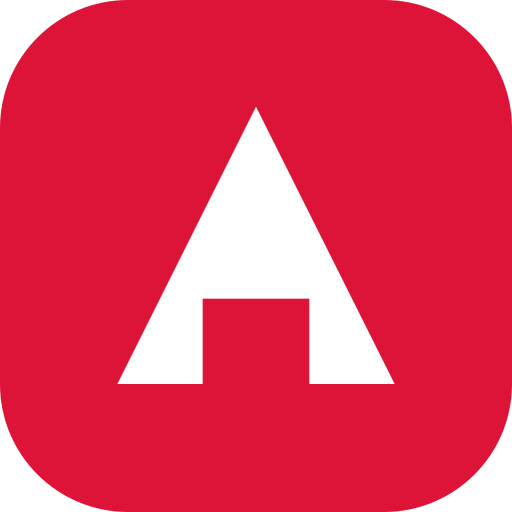
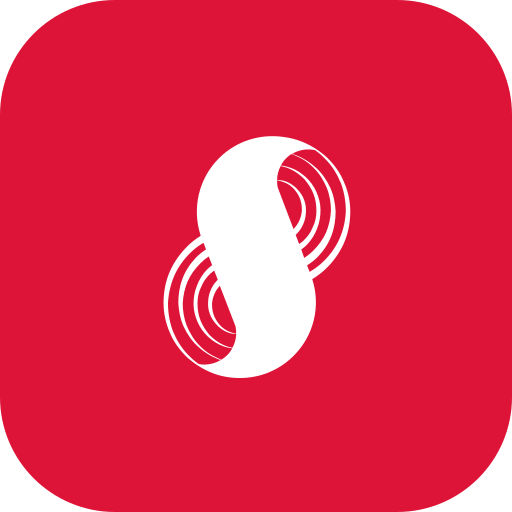
fix(supra): SupraSwap mark + native token fixes (#10)
- Swap Uniswap wordmark/favicon/icons for new SupraSwapMark across
  nav and wallet modal; rename TVL label to SupraSwap.
- Drop V2/V4 from Explore volume/TVL stats since Supra only has a
  V3 deployment; stop warning on their durably-empty data.
- Resolve NATIVE to its wrapped token when selecting/defaulting
  currencies in create-position, since v2/v3 pools can't hold
  native directly.
- Add Supra to COMMON_BASES and quote native as wrapped on Supra,
  since the gateway doesn't yet support the native-token sentinel.
- Fix usePoolPriceChartData/usePDPVolumeChartData referencing
  removed v2Pair/v4Pool fields on the now V3-only GraphQL queries.

diff --git a/apps/web/src/components/Logo/SupraSwapMark.tsx b/apps/web/src/components/Logo/SupraSwapMark.tsx
@@ -1,0 +1,18 @@
+import { SVGProps } from 'react'
+
+// SupraSwap brand mark path — shared by NavIcon and UniswapBrandedIcon so the
+// ~4KB path string isn't duplicated between them.
+const SUPRASWAP_MARK_PATH_D =
+  'M201.3 66.4c-3.1-7.8-8.2-14.7-14-20.4-6.1-5.7-13.3-10.2-20.8-13.3-5-2-10.2-3.3-15.6-4-19.1-2.8-39.2 3.1-53.8 17.7-16.8 16.8-22.7 41.5-15.3 64.4v.3c-4.7 2.9-9 6.4-12.7 10.4-5.8 6.1-10.6 13.3-13.7 21.1-3.1 7.9-4.5 16-4.5 24.6 0 8.1 1.8 16.6 5.1 24.2 3.1 7.8 8.2 14.7 14 20.4 6.1 5.7 13.3 10.2 20.8 13.3 7.5 3.1 15.6 4.5 23.9 4.5-1.2 0-2.3 0-3.4-.1 17.3.9 34.8-5.2 48-18.4 16.9-16.9 22.8-41.4 15.5-63.9 5-3 9.6-6.7 13.5-10.8 5.8-6.1 10.6-13.3 13.7-21.1 3.1-7.9 4.5-16 4.5-24.6 0-8.3-1.8-16.8-5.2-24.3m-55.2 4.5c-.5-2-.6-4.1-.6-6.1 2.3.4 4.5 1.1 6.7 2 3.1 1.3 5.7 3.4 7.8 5.7 2 2.5 3.8 5.1 4.8 8.2 1.1 3.1 1.4 6.1 1.4 9.2-.4 5.9-2.9 11.4-7 15.5l-13.1-34.5zm14.9 39.4 1.2-1.2c2.7-2.8 4.4-5.7 5.7-9.2 1.4-3.5 1.7-7.2 1.7-10.6 0-3.8-1-7.1-2.4-10.2-1.4-3.1-3.8-5.8-6.1-8.2-2.4-2.1-5.4-4.2-8.5-5.2-2.2-.8-4.6-1.1-7.1-1.3.1-4 1.1-7.9 3-11.5 2.8.6 5.5 1.4 8 2.6 4.8 2.1 8.5 5.2 11.9 8.5 3.1 3.8 5.8 7.8 7.5 12.3 1.7 4.5 2.4 9.1 2.4 14s-1 9.6-3.1 13.7c-1.7 4.4-4.5 8.1-7.8 11.2-1.1 1-2.3 1.9-3.5 2.7l-2.9-7.6zm4.7 12.2c1.8-1.3 3.5-2.7 5-4.3 3.5-3.8 6.5-8.5 8.2-13.3 2.1-5.2 2.8-10.3 2.8-15.4s-1.3-10.2-3.4-15c-2-4.5-5.1-8.9-8.8-12.3-3.8-3.4-7.8-6.1-12.6-7.8-2.7-.9-5.5-1.6-8.3-1.9 1.2-2.2 2.6-4.2 4.4-6 1.4-1.4 2.9-2.6 4.5-3.6 1.3.5 2.5 1 3.7 1.5 5.7 2.4 11.2 6.1 15.6 10.9 4.5 4.5 7.8 10.3 10.2 16 2.4 6.1 3.4 12.6 3.4 18.7-.3 6.5-1.7 12.7-4.1 18.4-2.4 5.4-6.1 10.5-10.6 15-2.3 2.3-4.9 4.4-7.6 6.1l-2.4-7zm-66.6 91.8c-1-.4-2-.8-3-1.3-5.7-2.4-11.2-6.1-15.6-10.9-4.5-4.5-7.8-10.3-10.2-16-2.4-6.1-3.4-12.6-3.4-18.7.3-6.5 1.7-12.7 4.1-18.4 2.4-5.4 6.1-10.5 10.6-15 2.2-2.2 4.5-4.1 7-5.7l2.8 7.2c-1.6 1.2-3.1 2.5-4.5 3.9-3.5 3.8-6.5 8.5-8.2 13.3-2.1 5.1-2.8 10.3-2.8 15.3s1.3 10.2 3.4 15c2 4.5 5.1 8.9 8.8 12.3 3.8 3.4 7.8 6.1 12.6 7.8 2.4.9 4.9 1.4 7.5 1.8-1.2 2.1-2.6 4-4.3 5.7-1.6 1.5-3.1 2.7-4.8 3.7m1.9-12.2c-4.8-2.1-8.5-5.2-11.9-8.5-3.1-3.8-5.8-7.8-7.5-12.3-1.7-4.5-2.4-9.1-2.4-14s1-9.6 3.1-13.7c1.7-4.4 4.5-8.1 7.8-11.2.9-.8 1.9-1.6 3-2.4l3 7.7c-.2.2-.5.4-.7.7-2.7 2.8-4.4 5.7-5.7 9.2-1.4 3.5-1.7 7.2-1.7 10.6 0 3.8 1 7.1 2.4 10.2 1.4 3.1 3.8 5.8 6.1 8.2 2.4 2.1 5.4 4.2 8.5 5.2 2 .7 4.2 1.1 6.5 1.2-.2 4-1.3 7.9-3.2 11.4-2.5-.5-4.9-1.2-7.3-2.3m9.9-15.5c.4 2 .6 4.1.5 6.1-2.1-.4-4.1-1-6.1-1.9-3.1-1.3-5.7-3.4-7.8-5.7-2-2.5-3.8-5.2-4.8-8.2-1.1-3.1-1.4-6.1-1.4-9.2.4-5.6 2.7-11 6.5-15l13.1 33.9zm-39.2 24c-5.8-5.8-9.9-12.6-13-20.1-2.7-7.1-4.1-15.4-4.1-23.2.4-7.8 2.1-15.6 5.2-22.8 3.1-7.2 7.8-13.7 13.3-19.1 3.3-3.3 7-6.1 11.1-8.5l2.1 5.5c-3.2 2.1-6.2 4.5-8.8 7.3-4.8 5.1-8.5 10.9-10.9 17.3-2.4 6.4-3.4 13.3-3.4 20.1.4 6.7 1.7 13.6 4.5 19.7s6.8 11.9 11.6 16.3c4.8 4.5 10.5 8.2 16.6 10.6.9.3 1.8.6 2.6.9-4 2.4-8.5 3.7-13.3 3.8-1.7 0-3.4-.1-5-.5-3-2.1-5.9-4.6-8.5-7.3m126-97.5c-3.1 7.2-7.8 13.7-13.3 19.1-3.5 3.5-7.5 6.5-11.8 8.9l-2.1-5.4c3.5-2.2 6.7-4.7 9.5-7.7 4.8-5.1 8.5-10.9 10.9-17.3 2.4-6.4 3.4-13.3 3.4-20.1-.4-6.7-1.7-13.6-4.5-19.7S183 59 178.2 54.6c-4.8-4.5-10.5-8.2-16.6-10.6-1.1-.4-2.3-.8-3.5-1.2 5.8-3.5 12.7-4.5 19.1-3.1 3.1 2.2 6 4.7 8.5 7.4 5.8 5.8 9.9 12.6 13 20.1 2.7 7.1 4.1 15.4 4.1 23.2-.3 7.7-2 15.6-5.1 22.7'
+
+export function SupraSwapMark({
+  size = 22,
+  color,
+  ...rest
+}: SVGProps<SVGSVGElement> & { size?: number; color: string }) {
+  return (
+    <svg xmlns="http://www.w3.org/2000/svg" width={size} height={size} viewBox="0 0 255.9 255.8" fill="none" {...rest}>
+      <path fill={color} d={SUPRASWAP_MARK_PATH_D} />
+    </svg>
+  )
+}

diff --git a/apps/web/src/features/Liquidity/Create/SelectTokenStep.tsx b/apps/web/src/features/Liquidity/Create/SelectTokenStep.tsx
@@ -54,6 +54,7 @@ import { useSelectedFeeBreakdown } from '~/features/Liquidity/hooks/useSelectedF
 import { LpIncentivesAprDisplay } from '~/features/Liquidity/LPIncentives/LpIncentivesAprDisplay'
 import { useLPGeoRestriction } from '~/features/Liquidity/useLPGeoRestriction'
 import { getCreateFeeTierOptions, getSteeredRecommendedFee } from '~/features/Liquidity/utils/createFeeTiers'
+import { getCurrencyForProtocol } from '~/features/Liquidity/utils/currency'
 import { getDefaultFeeTiersWithData, getFeeTierKey } from '~/features/Liquidity/utils/feeTiers'
 import { hasLPFoTTransferError } from '~/features/Liquidity/utils/hasLPFoTTransferError'
 import { isUnsupportedLPChain } from '~/features/Liquidity/utils/isUnsupportedLPChain'
@@ -142,19 +143,25 @@ export function SelectTokensStep({
 
       const otherInputState = currencySearchInputState === 'tokenA' ? 'tokenB' : 'tokenA'
       const otherCurrency = currencyInputs[otherInputState]
-      const wrappedCurrencyNew = currency.isNative ? currency.wrapped : currency
-      const wrappedCurrencyOther = otherCurrency?.isNative ? otherCurrency.wrapped : otherCurrency
+      // v2/v3 pools can't hold the native currency directly, so selecting NATIVE here
+      // resolves straight to its wrapped token instead of storing native and only
+      // substituting at calldata-build time (which skipped the ERC20 approval step).
+      const resolvedCurrency = getCurrencyForProtocol(currency, protocolVersion)
+      const wrappedCurrencyOther = getCurrencyForProtocol(otherCurrency, protocolVersion)
 
       setSelectedChainId(currency.chainId)
 
       // If the tokens change, we want to reset the default fee tier (mostUsedFeeTier) in the useEffect below.
       setPositionState((prevState) => ({ ...prevState, fee: undefined }))
 
-      if (areCurrenciesEqual(currency, otherCurrency) || areCurrenciesEqual(wrappedCurrencyNew, wrappedCurrencyOther)) {
+      if (
+        areCurrenciesEqual(currency, otherCurrency) ||
+        areCurrenciesEqual(resolvedCurrency, wrappedCurrencyOther)
+      ) {
         setCurrencyInputs((prevState) => ({
           ...prevState,
           [otherInputState]: undefined,
-          [currencySearchInputState]: currency,
+          [currencySearchInputState]: resolvedCurrency,
         }))
         return
       }
@@ -163,7 +170,7 @@ export function SelectTokensStep({
         setCurrencyInputs((prevState) => ({
           ...prevState,
           [otherInputState]: undefined,
-          [currencySearchInputState]: currency,
+          [currencySearchInputState]: resolvedCurrency,
         }))
         return
       }
@@ -173,14 +180,14 @@ export function SelectTokensStep({
         case 'tokenB':
           setCurrencyInputs((prevState) => ({
             ...prevState,
-            [currencySearchInputState]: currency,
+            [currencySearchInputState]: resolvedCurrency,
           }))
           break
         default:
           break
       }
     },
-    [currencySearchInputState, setCurrencyInputs, currencyInputs, setSelectedChainId, setPositionState],
+    [currencySearchInputState, setCurrencyInputs, currencyInputs, setSelectedChainId, setPositionState, protocolVersion],
   )
 
   const handleFeeTierSelect = useCallback(

diff --git a/apps/web/src/pages/Explore/ExploreStatsSection.tsx b/apps/web/src/pages/Explore/ExploreStatsSection.tsx
@@ -22,7 +22,7 @@ export const ExploreStatsSection = ({ shouldHideStats = false }: { shouldHideSta
   const { t } = useTranslation()
   const { convertFiatAmountFormatted } = useLocalizationContext()
 
-  const { protocolVolumes, totalVolume, isLoading: isVolumeLoading } = use24hProtocolVolume()
+  const { totalVolume, isLoading: isVolumeLoading } = use24hProtocolVolume()
   const { totalTVL, protocolTVL, isLoading: isTVLLoading } = useDailyTVLWithChange()
 
   const isStatDataLoading = isVolumeLoading || isTVLLoading
@@ -30,16 +30,11 @@ export const ExploreStatsSection = ({ shouldHideStats = false }: { shouldHideSta
   const exploreStatsSectionData = useMemo(() => {
     const formatPrice = (price: number) => convertFiatAmountFormatted(price, NumberType.FiatTokenPrice)
 
-    const stats = [
+    const stats: ExploreStatSectionData[] = [
       {
         label: t('stats.volume.1d.long'),
         value: formatPrice(totalVolume),
         balance: totalVolume,
-        protocolPopoverFormattedData: [
-          { label: t('common.protocol.v4'), value: protocolVolumes.v4 },
-          { label: t('common.protocol.v3'), value: protocolVolumes.v3 },
-          { label: t('common.protocol.v2'), value: protocolVolumes.v2 },
-        ],
       },
       {
         label: t('common.totalUniswapTVL'),
@@ -47,36 +42,15 @@ export const ExploreStatsSection = ({ shouldHideStats = false }: { shouldHideSta
         balance: totalTVL,
       },
       {
-        label: t('explore.v2TVL'),
-        value: formatPrice(protocolTVL.v2),
-        balance: protocolTVL.v2,
-      },
-      {
         label: t('explore.v3TVL'),
         value: formatPrice(protocolTVL.v3),
         balance: protocolTVL.v3,
-      },
-      {
-        label: t('explore.v4TVL'),
-        value: formatPrice(protocolTVL.v4),
-        balance: protocolTVL.v4,
       },
     ]
 
     // oxlint-disable-next-line typescript/no-unnecessary-condition
     return stats.filter((state): state is Exclude<typeof state, null> => state !== null)
-  }, [
-    t,
-    convertFiatAmountFormatted,
-    totalVolume,
-    protocolVolumes.v4,
-    protocolVolumes.v3,
-    protocolVolumes.v2,
-    totalTVL,
-    protocolTVL.v2,
-    protocolTVL.v3,
-    protocolTVL.v4,
-  ])
+  }, [t, convertFiatAmountFormatted, totalVolume, totalTVL, protocolTVL.v3])
 
   const visibleStats = media.md ? exploreStatsSectionData.slice(0, 2) : exploreStatsSectionData
 
@@ -134,6 +108,10 @@ const StatDisplay = memo(({ data, isLoading, isHoverable }: StatDisplayProps) =>
 
 StatDisplay.displayName = 'StatDisplay'
 
+// Currently unreachable: no entry in exploreStatsSectionData sets
+// protocolPopoverFormattedData since Explore stats went V3-only, so the
+// isTouchable/!protocolPopoverFormattedData check above always falls through
+// to plain StatDisplay. Kept intact for a future V3-only popover breakdown.
 const StatDisplayWithPopover = memo(({ data, isLoading }: StatDisplayProps) => {
   const shadowProps = useShadowPropsMedium()
   const { convertFiatAmountFormatted } = useLocalizationContext()

diff --git a/packages/uniswap/src/features/transactions/swap/services/tradeService/transformations/buildQuoteRequest.ts b/packages/uniswap/src/features/transactions/swap/services/tradeService/transformations/buildQuoteRequest.ts
@@ -7,6 +7,7 @@ import {
   parseQuoteCurrencies,
[1 lines of base64/hex data omitted]
 import type { UseTradeArgs } from 'uniswap/src/features/transactions/swap/types/trade'
+import { UniverseChainId } from 'uniswap/src/features/chains/types'
 import {
   buildUrgency,
   DEFAULT_URGENCY_LEVEL,
@@ -142,6 +143,19 @@ export interface ParsedTradeInput {
   gasOverrides?: TradingApi.UrgencyOverrides
 }
 
+// Supra's gateway rejects the zero-address native-token sentinel (no wrap/unwrap
+// multicall support yet), so on Supra only, native currency is quoted as its
+// wrapped token instead of going through NATIVE_ADDRESS_FOR_TRADING_API.
+function getTokenAddressForQuote(currency: Maybe<Currency>): string | undefined {
+  if (!currency) {
+    return undefined
+  }
+  if (currency.isNative && currency.chainId === UniverseChainId.Supra) {
+    return currency.wrapped.address
+  }
+  return getTokenAddressForApi(currency)
+}
+
 export function parseTradeInputForTradingApiQuote(input: UseTradeArgs): ParsedTradeInput {
   const { currencyIn, currencyOut, requestTradeType } = parseQuoteCurrencies(input)
 
@@ -153,8 +167,8 @@ export function parseTradeInputForTradingApiQuote(input: UseTradeArgs): ParsedTr
     activeAccountAddress: input.account?.address,
     tokenInChainId: toTradingApiSupportedChainId(currencyIn?.chainId),
     tokenOutChainId: input.quoteOutputOverride?.tokenOutChainId ?? toTradingApiSupportedChainId(currencyOut?.chainId),
-    tokenInAddress: getTokenAddressForApi(currencyIn),
-    tokenOutAddress: input.quoteOutputOverride?.tokenOutAddress ?? getTokenAddressForApi(currencyOut),
+    tokenInAddress: getTokenAddressForQuote(currencyIn),
+    tokenOutAddress: input.quoteOutputOverride?.tokenOutAddress ?? getTokenAddressForQuote(currencyOut),
     generatePermitAsTransaction: input.generatePermitAsTransaction,
     earnIntent: input.earnIntent,
     isUSDQuote: input.isUSDQuote ?? false,

diff --git a/apps/web/src/features/Explore/state/protocolStats.ts b/apps/web/src/features/Explore/state/protocolStats.ts
@@ -57,9 +57,11 @@ export function use24hProtocolVolume() {
   const v4Data: TimestampedAmount[] | undefined = data?.historicalProtocolVolume?.Month?.v4
 
   return useMemo(() => {
-    const v2 = getLatestAndPreviousValues(v2Data, { protocolName: 'V2', isLoading })
+    // v2/v4 are durably empty on this V3-only fork (no V2/V4 deployment on
+    // Supra) — not an error, so skip the "no data" warn for them.
+    const v2 = getLatestAndPreviousValues(v2Data)
     const v3 = getLatestAndPreviousValues(v3Data, { protocolName: 'V3', isLoading })
-    const v4 = getLatestAndPreviousValues(v4Data, { protocolName: 'V4', isLoading })
+    const v4 = getLatestAndPreviousValues(v4Data)
 
     const totalLatest = v2.latest.value + v3.latest.value + v4.latest.value
     const totalPrevious = v2.previous.value + v3.previous.value + v4.previous.value
@@ -105,9 +107,11 @@ export function useDailyTVLWithChange() {
   const v4Data: TimestampedAmount[] | undefined = data?.dailyProtocolTvl?.v4
 
   return useMemo(() => {
-    const v2 = getLatestAndPreviousValues(v2Data, { protocolName: 'V2', isLoading })
+    // v2/v4 are durably empty on this V3-only fork (no V2/V4 deployment on
+    // Supra) — not an error, so skip the "no data" warn for them.
+    const v2 = getLatestAndPreviousValues(v2Data)
     const v3 = getLatestAndPreviousValues(v3Data, { protocolName: 'V3', isLoading })
-    const v4 = getLatestAndPreviousValues(v4Data, { protocolName: 'V4', isLoading })
+    const v4 = getLatestAndPreviousValues(v4Data)
 
     const protocolTVL = {
       v2: v2.latest.value,

diff --git a/apps/web/src/components/Logo/NavIcon.tsx b/apps/web/src/components/Logo/NavIcon.tsx
@@ -1,21 +1,6 @@
 import { SVGProps } from 'react'
 import { Flex, styled, useSporeColors } from 'ui/src'
-
-function Logo({ color, onClick }: { color: string; onClick?: () => void }) {
-  return (
-    <svg
-      xmlns="http://www.w3.org/2000/svg"
-      width="22"
-      height="22"
-      viewBox="0 0 24 24"
-      fill="none"
-      onClick={onClick}
-      cursor="pointer"
-    >
-      <path d="M12 2L21 20H15V14H9V20H3L12 2Z" fill={color} />
-    </svg>
-  )
-}
+import { SupraSwapMark } from '~/components/Logo/SupraSwapMark'
 
 const Container = styled(Flex, {
   position: 'relative',
@@ -39,7 +24,7 @@ export const NavIcon = ({ clickable, onClick }: NavIconProps) => {
 
   return (
     <Container clickable={clickable}>
-      <Logo color={colors.accent1.val} onClick={onClick} />
+      <SupraSwapMark size={22} color={colors.accent1.val} onClick={onClick} cursor="pointer" />
     </Container>
   )
 }

diff --git a/apps/web/src/features/Liquidity/charts/usePoolPriceChartData.tsx b/apps/web/src/features/Liquidity/charts/usePoolPriceChartData.tsx
@@ -29,12 +29,12 @@ export function usePoolPriceChartData({
     skip: !variables?.addressOrId,
   })
   return useMemo(() => {
-    const { priceHistory } = data?.v2Pair ?? data?.v3Pool ?? data?.v4Pool ?? {}
+    const { priceHistory } = data?.v3Pool ?? {}
 
     const entries =
       priceHistory
         ?.filter((price): price is GraphQLApi.TimestampedPoolPrice => price !== undefined)
-        .map((price) => {
+        .map((price: GraphQLApi.TimestampedPoolPrice) => {
           const value = priceInverted ? price.token0Price : price.token1Price
 
           return {
@@ -57,5 +57,5 @@ export function usePoolPriceChartData({
     const dataHash = hashKey(filteredEntries)
 
     return { chartType: ChartType.PRICE, entries: filteredEntries, loading, dataQuality, dataHash }
-  }, [data?.v2Pair, data?.v3Pool, data?.v4Pool, loading, priceInverted])
+  }, [data?.v3Pool, loading, priceInverted])
 }

diff --git a/apps/web/src/pages/CreatePosition/CreateLiquidityContextProvider.tsx b/apps/web/src/pages/CreatePosition/CreateLiquidityContextProvider.tsx
@@ -16,6 +16,7 @@ import {
   type PriceRangeState,
   RangeAmountInputPriceMode,
 } from '~/features/Liquidity/Create/types'
+import { getCurrencyForProtocol } from '~/features/Liquidity/utils/currency'
 import { getPriceRangeInfo } from '~/features/Liquidity/utils/priceRangeInfo'
 import type { DepositState } from '~/types/liquidity'
 import { PositionField } from '~/types/position'
@@ -255,7 +256,7 @@ export function CreateLiquidityContextProvider({
       protocolVersion: positionState.protocolVersion,
     })
     setCurrencyInputs({
-      tokenA: defaultInitialToken,
+      tokenA: getCurrencyForProtocol(defaultInitialToken, positionState.protocolVersion),
       tokenB: undefined,
     })
     setHistoryState(PositionFlowStep.SELECT_TOKENS_AND_FEE_TIER)

diff --git a/apps/web/src/pages/PoolDetails/components/ChartSection/hooks.ts b/apps/web/src/pages/PoolDetails/components/ChartSection/hooks.ts
@@ -15,7 +15,7 @@ export function usePDPVolumeChartData({
   })
 
   return useMemo(() => {
-    const { historicalVolume } = data?.v2Pair ?? data?.v3Pool ?? data?.v4Pool ?? {}
+    const { historicalVolume } = data?.v3Pool ?? {}
     const entries =
       historicalVolume?.filter((amt): amt is GraphQLApi.TimestampedAmount => amt !== undefined).map(withUTCTimestamp) ??
       []
@@ -23,5 +23,5 @@ export function usePDPVolumeChartData({
     const dataQuality = checkDataQuality({ data: entries, chartType: ChartType.VOLUME, duration: variables.duration })
 
     return { chartType: ChartType.VOLUME, entries, loading, dataQuality }
-  }, [data?.v2Pair, data?.v3Pool, data?.v4Pool, loading, variables.duration])
+  }, [data?.v3Pool, loading, variables.duration])
 }

diff --git a/apps/web/src/components/WalletModal/UniswapBrandedIcon.tsx b/apps/web/src/components/WalletModal/UniswapBrandedIcon.tsx
@@ -1,5 +1,6 @@
 import { Flex, useSporeColors } from 'ui/src'
 import { GoogleChromeLogo } from 'ui/src/components/logos/GoogleChromeLogo'
+import { SupraSwapMark } from '~/components/Logo/SupraSwapMark'
 
 interface UniswapBrandedIconProps {
   size?: number
@@ -22,9 +23,7 @@ export function UniswapBrandedIcon({ size = 32, withChromeBadge }: UniswapBrande
       backgroundColor="$accent2"
       borderRadius="$rounded8"
     >
-      <svg width={iconSize} height={iconSize} viewBox="0 0 24 24" fill="none">
-        <path d="M12 2L21 20H15V14H9V20H3L12 2Z" fill={colors.accent1.val} />
-      </svg>
+      <SupraSwapMark size={iconSize} color={colors.accent1.val} />
       {withChromeBadge && (
         <Flex
           position="absolute"

diff --git a/packages/uniswap/src/constants/routing.ts b/packages/uniswap/src/constants/routing.ts
@@ -234,6 +234,11 @@ export const COMMON_BASES: ChainCurrencyList = {
     WRAPPED_NATIVE_CURRENCY[UniverseChainId.Zora] as Token,
     USDC_ZORA,
   ].map(buildPartialCurrencyInfo),
+
+  // Without this, getCommonBase() falls through to a backend token lookup for the
+  // native sentinel address, which doesn't reliably set isNative — breaking the
+  // NATIVE->wrapped URL substitution consistency between deep links and in-app selection.
+  [UniverseChainId.Supra]: [nativeOnChain(UniverseChainId.Supra)].map(buildPartialCurrencyInfo),
 }
 
 export function getCommonBase(chainId?: number, address?: string): CurrencyInfo | undefined {
